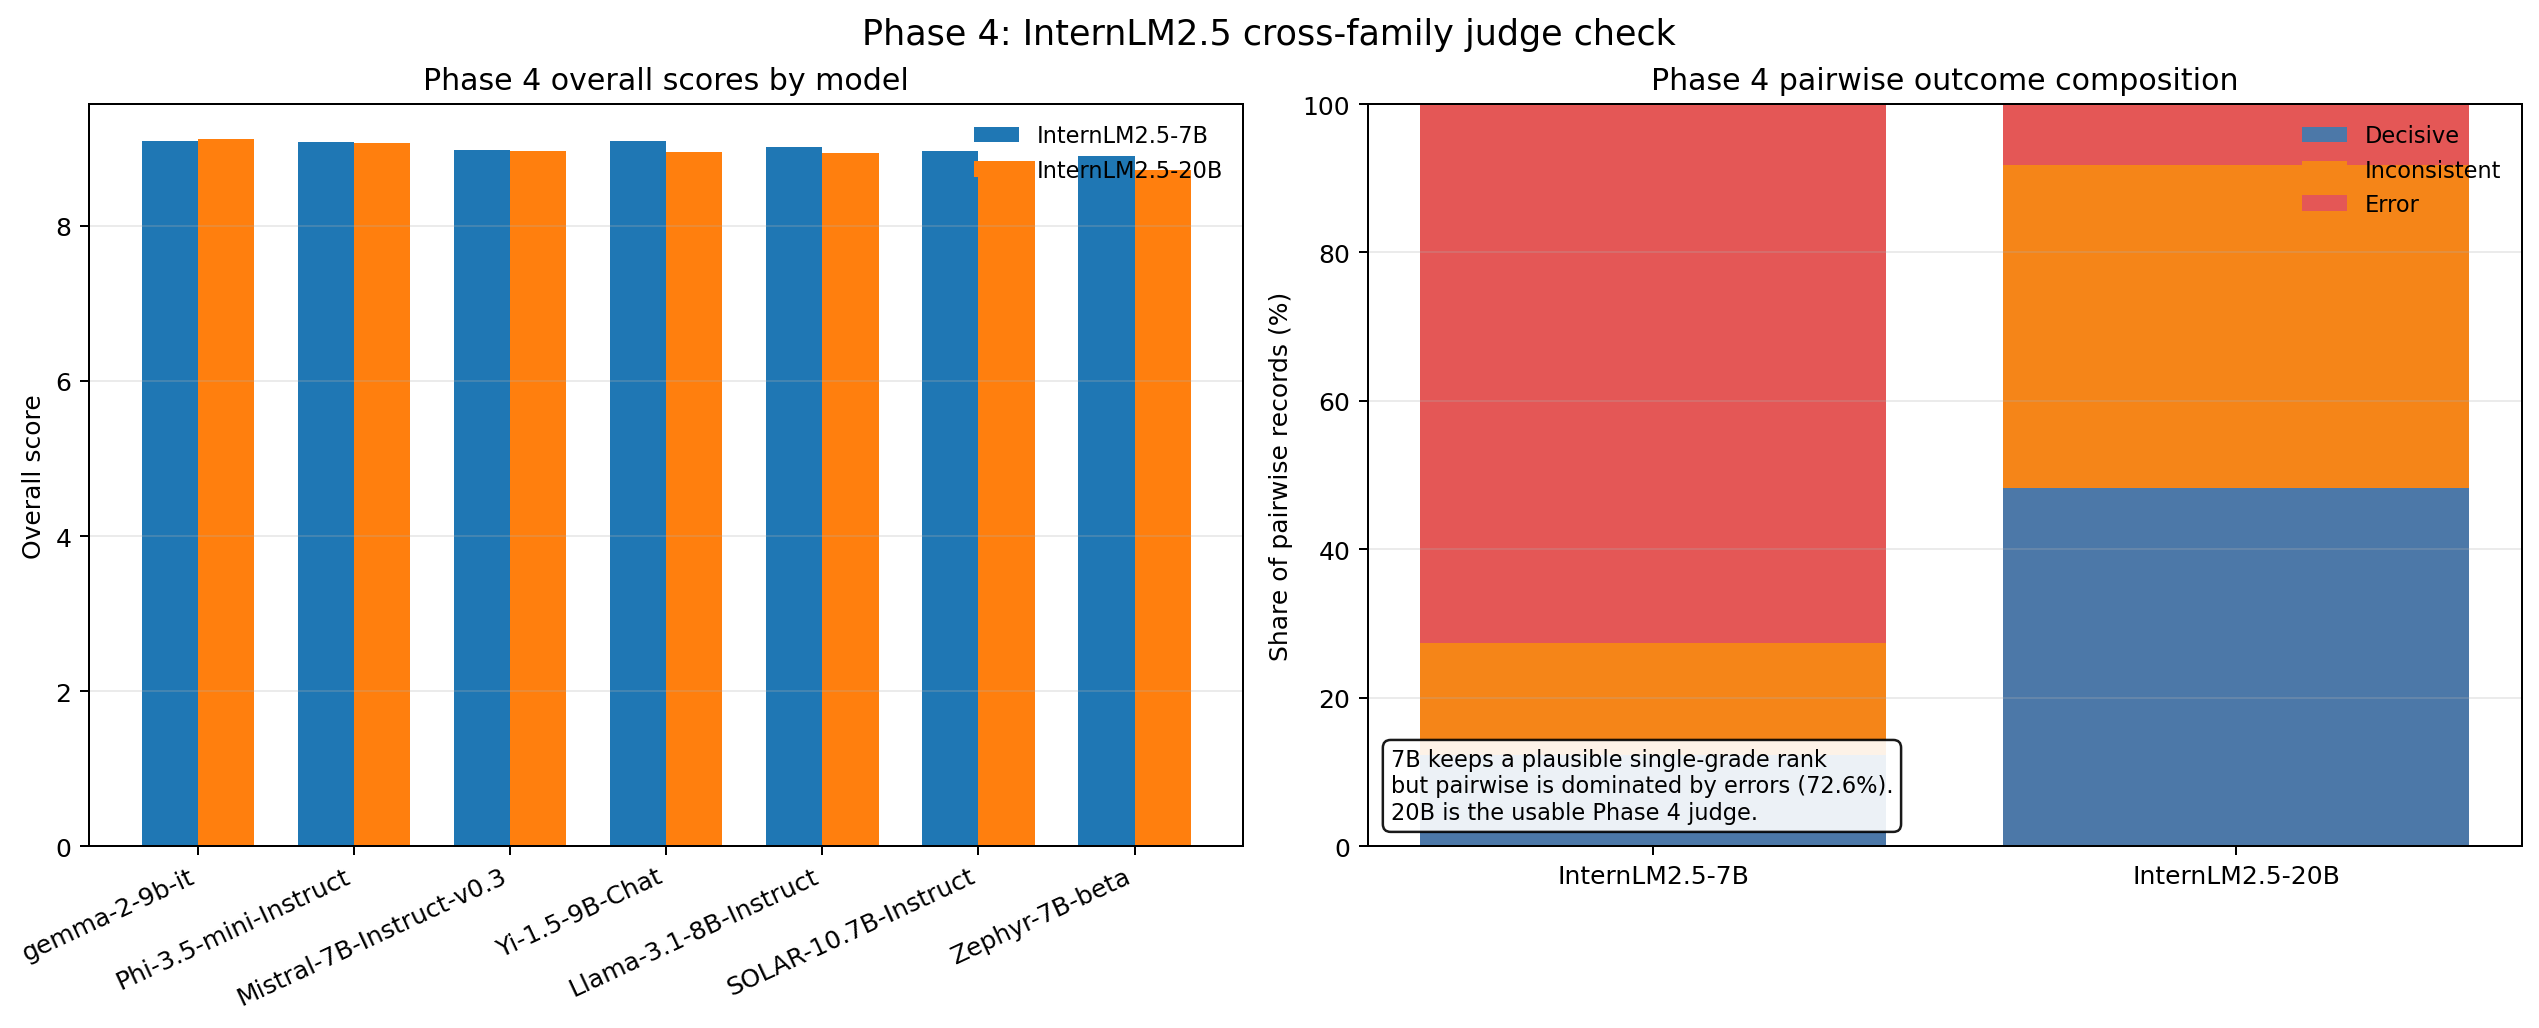
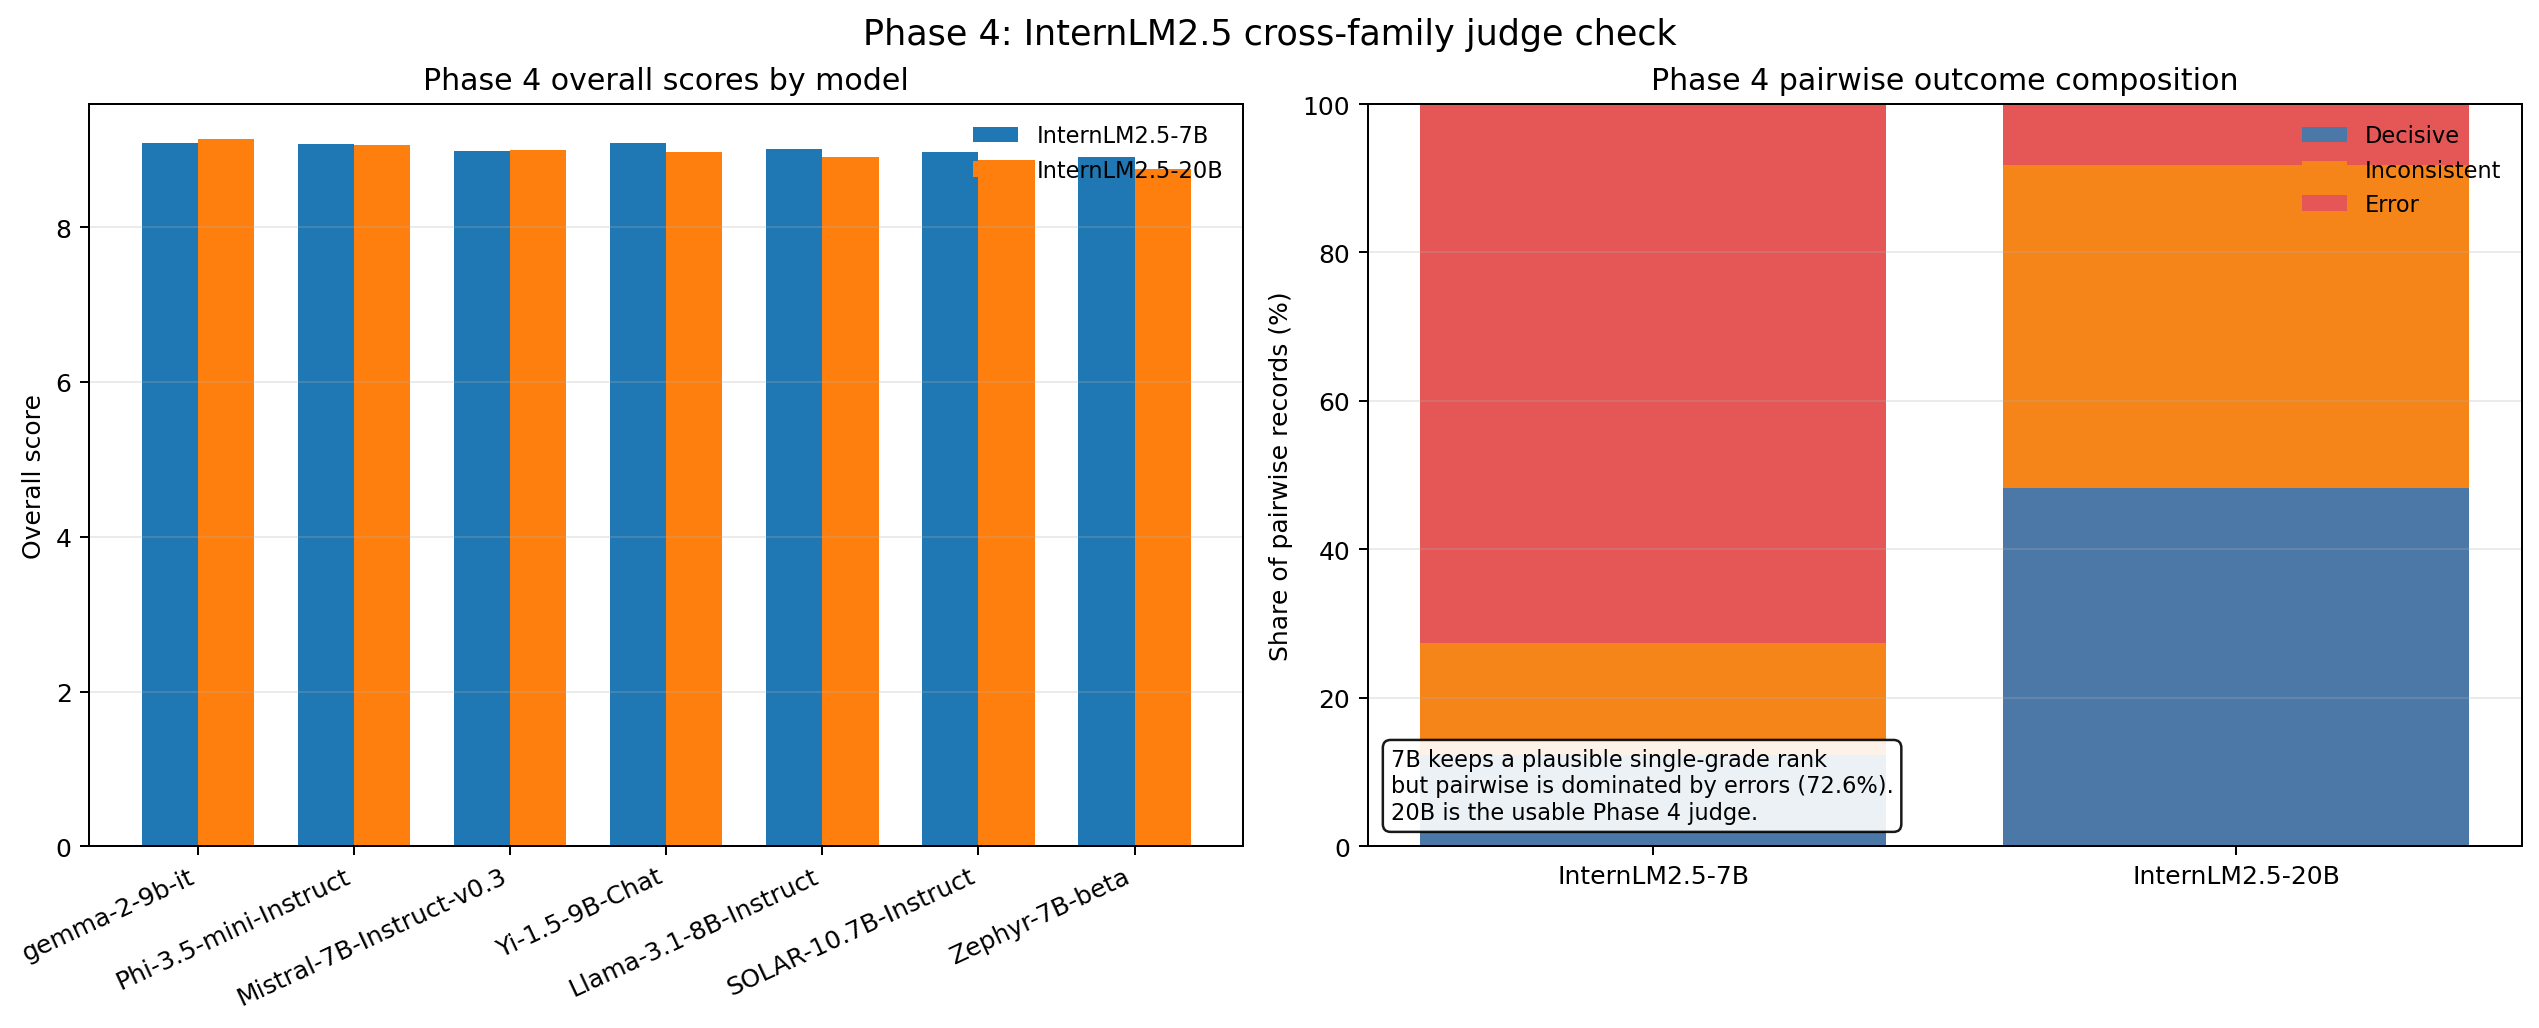
fix: retroactively parse InternLM20B scores from stored judgment text
InternLM20B outputs "Rating: N" (sometimes "Rating: **N**") instead of
"[[N]]". The parser fix was applied but existing JSONL data had already
been stored with score=-1.0. This commit:

- Re-parses all -1.0 scores in judge_internlm20b and internlm2_5_20b_chat
  single_grade files from the stored judgment text (295 scores recovered)
- Further fixes 2 edge cases: "Rating: **N**" (markdown bold) and
  "rated as a N" patterns
- Adds "Rating: **N**" fallback to prompts.py parse_single_score()
- Re-runs aggregation and analysis scripts with corrected data

Failures reduced: p4/ilm20b 202→2, unseen/ilm20b 87→1 (true truncations)

diff --git a/src/mtbench_repro/prompts.py b/src/mtbench_repro/prompts.py
@@ -464,8 +464,11 @@ def parse_single_score(text: str) -> float:
     # "[[숫자]]" 패턴: 정수 및 소수 모두 허용
     matches = re.findall(r"\[\[(\d+(?:\.\d+)?)\]\]", text)
     if not matches:
-        # fallback: "Rating: 9" 또는 "Rating: [[9]]" 없이 숫자만 있는 경우
+        # fallback 1: "Rating: 9" 또는 "Rating: [[9]]" 없이 숫자만 있는 경우
         matches = re.findall(r"[Rr]ating:\s*(\d+(?:\.\d+)?)", text)
+    if not matches:
+        # fallback 2: "Rating: **9**" (markdown bold)
+        matches = re.findall(r"[Rr]ating:\s*\*\*(\d+(?:\.\d+)?)\*\*", text)
     if not matches:
         return -1.0
 
